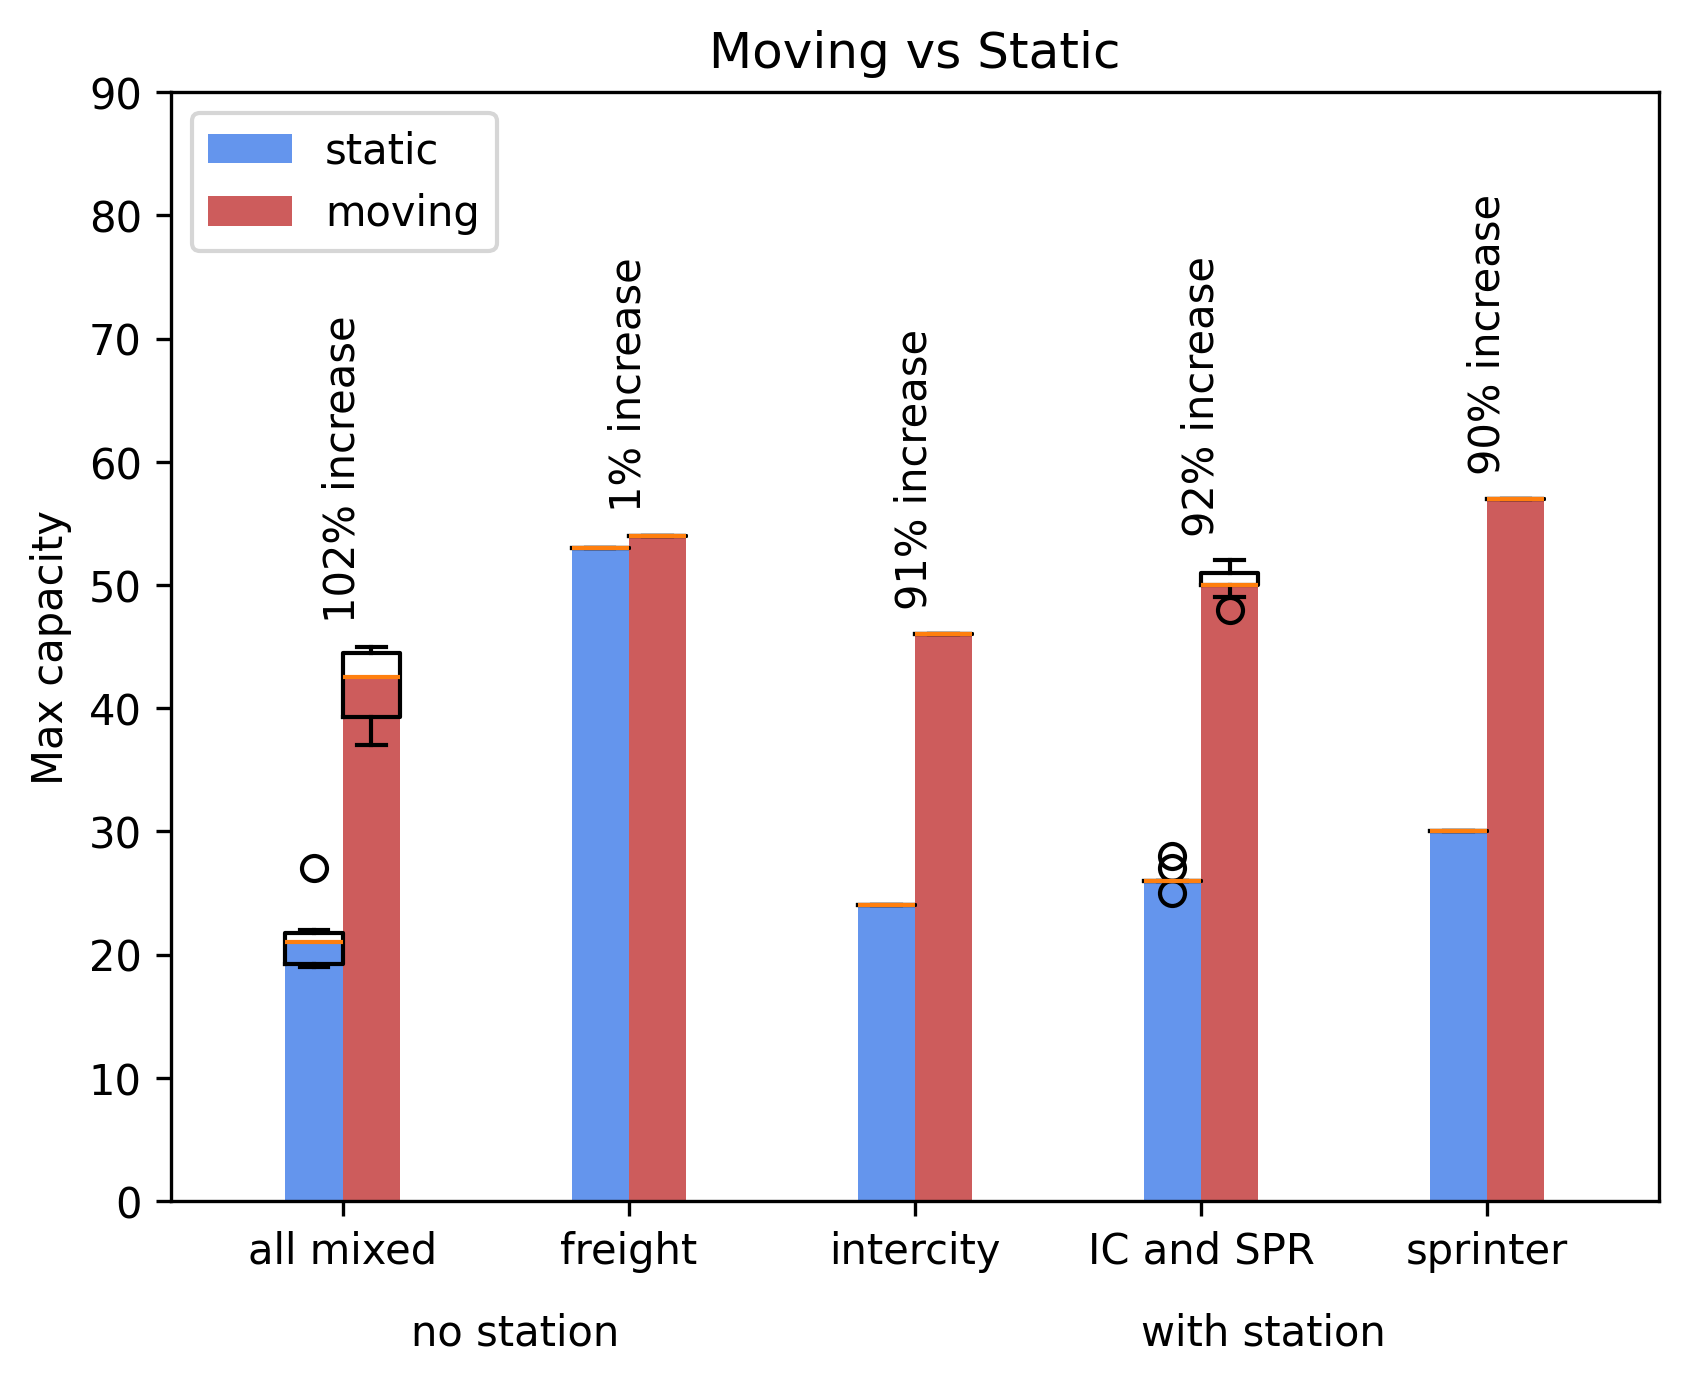
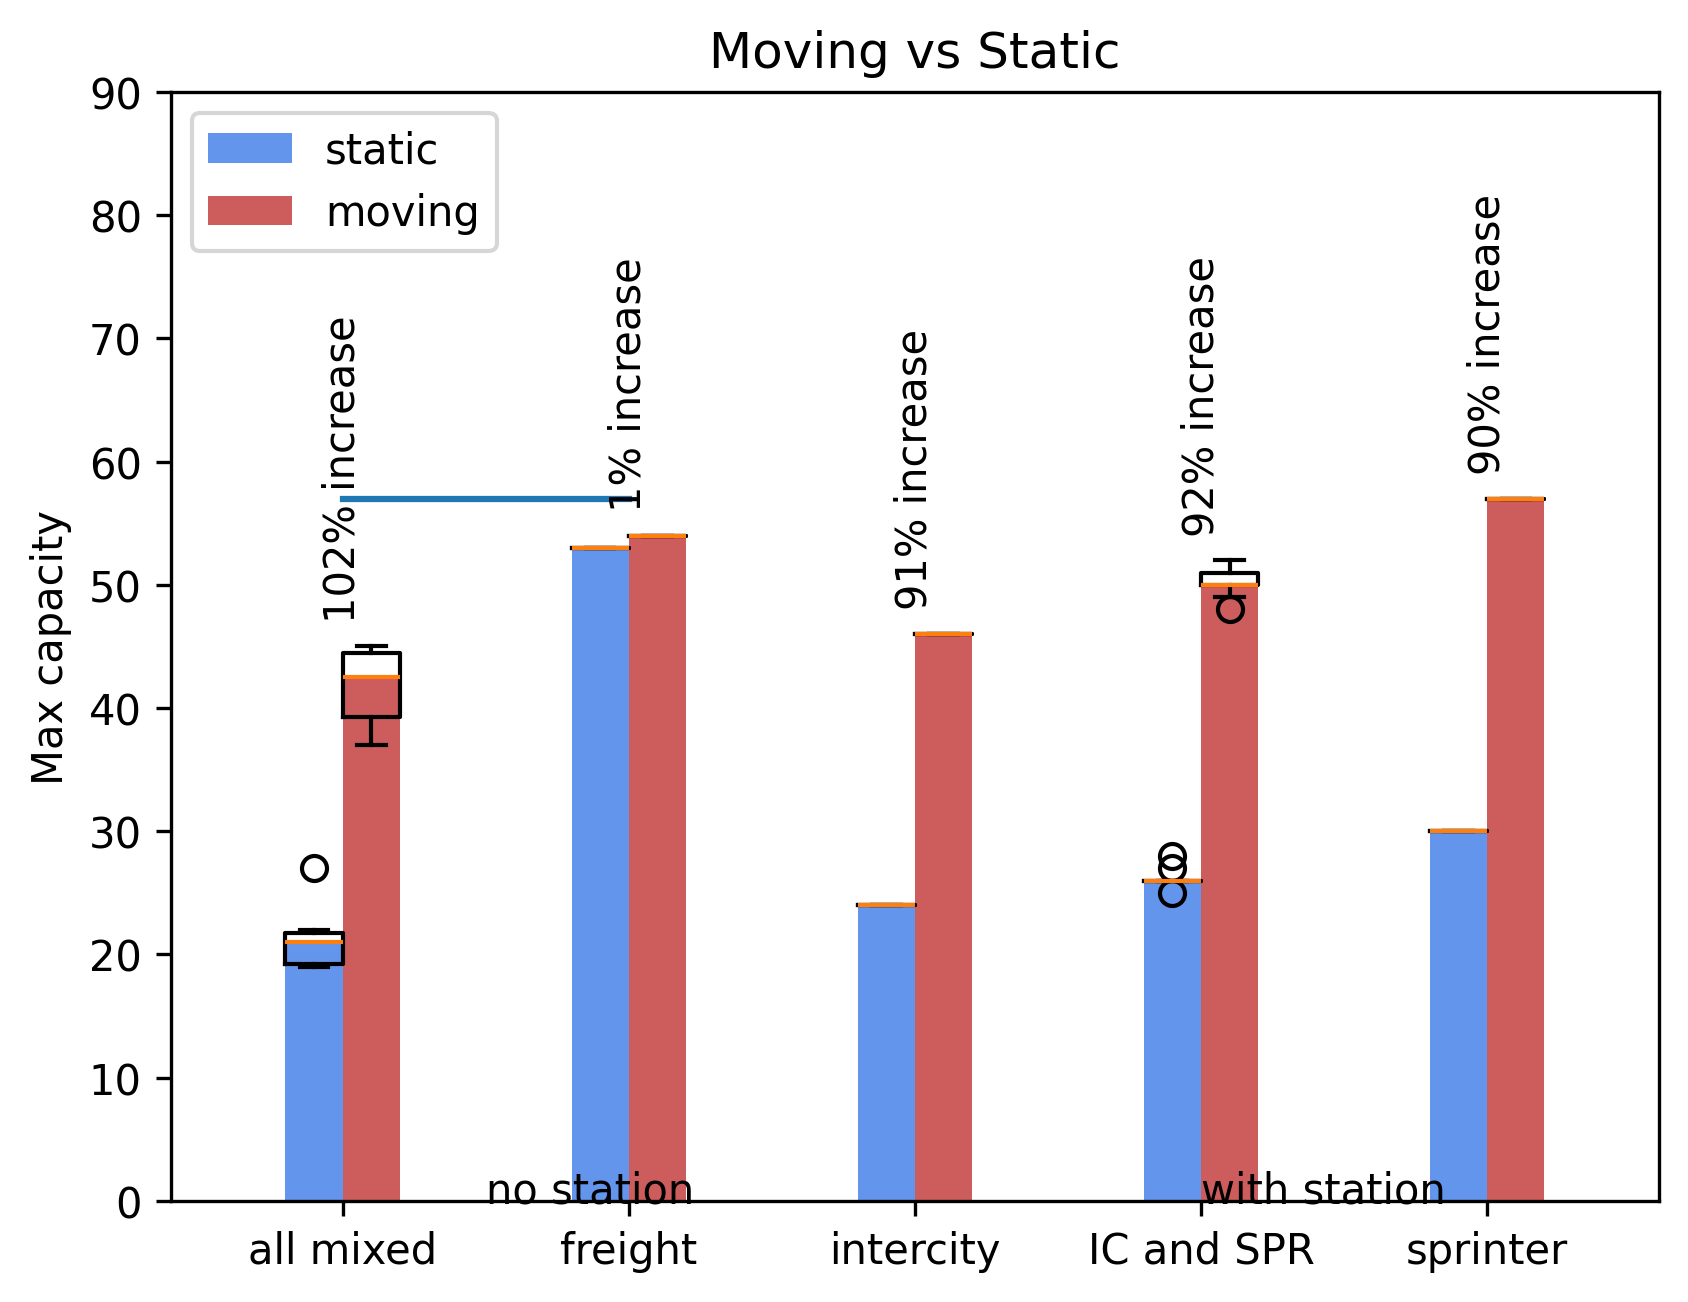
Oslo graph rework

diff --git a/analysis/Oslo_test.py b/analysis/Oslo_test.py
@@ -6,7 +6,7 @@ import numpy as np
 
 static_model = osloMetro.generate_metro("static", station_size=0)
 moving_model = osloMetro.generate_metro("moving")
-result = test_capacity([static_model, moving_model], [osloMetro.metro_specifications], max_trains=20, repetitions=1, verbose=False)
+result = test_capacity_trains([static_model, moving_model], [osloMetro.metro_specifications], max_trains=20, repetitions=1, verbose=False)
 
 static_capacities = []
 moving_capacities = []
@@ -18,8 +18,11 @@ for entry in result:
     static_capacities.append(static)
     moving_capacities.append(moving)
 
+#Reference capacity
 reference_max_static = 28
 reference_max_moving = 40
+
+#Our model capacity
 max_static = max(static_capacities)
 max_moving = max(moving_capacities)
 
@@ -31,17 +34,17 @@ groups = ['Reference', 'Our model']
 static_values = [reference_max_static, max_static]
 moving_values = [reference_max_moving, max_moving]
 width = 0.2
-in_group_spacing = 0.05
-group_spacing = 0.8
+in_group_spacing = 0.025
+group_spacing = 0.7
 
-x = np.arange(len(groups)) 
+x = np.arange(len(groups)) * group_spacing
 plt.figure()
-plt.bar(x - (width/2 + in_group_spacing), static_values, width, label='Static', color='red')
-plt.bar(x + (width/2 + in_group_spacing), moving_values, width, label='Moving', color='blue')
+plt.bar(x - (width/2 + in_group_spacing), static_values, width, label='Static', color='indianred')
+plt.bar(x + (width/2 + in_group_spacing), moving_values, width, label='Moving', color='cornflowerblue')
 
-plt.ylabel('Max capacity')
-plt.xticks(x, groups)
-plt.title('Vergelijking Oslo vs Simulatie')
+plt.ylabel('Max capacity', fontsize=14)
+plt.xticks(x, groups, fontsize=14)
+plt.title('Comparison Oslo vs Simulation', fontsize=14)
 plt.legend()
 
 plt.savefig("../plots/Oslo_plot.png", bbox_inches="tight", dpi=300)
